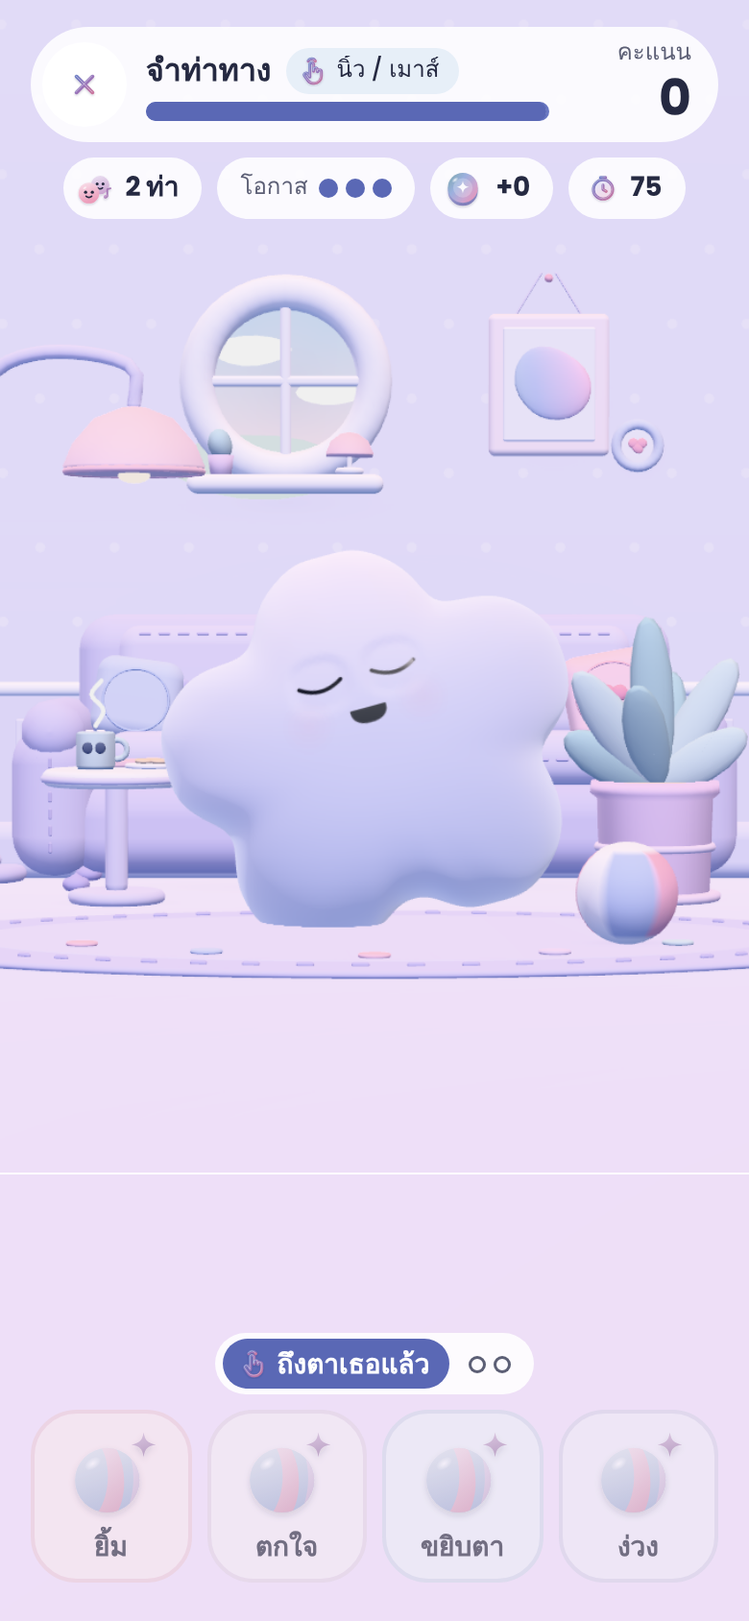
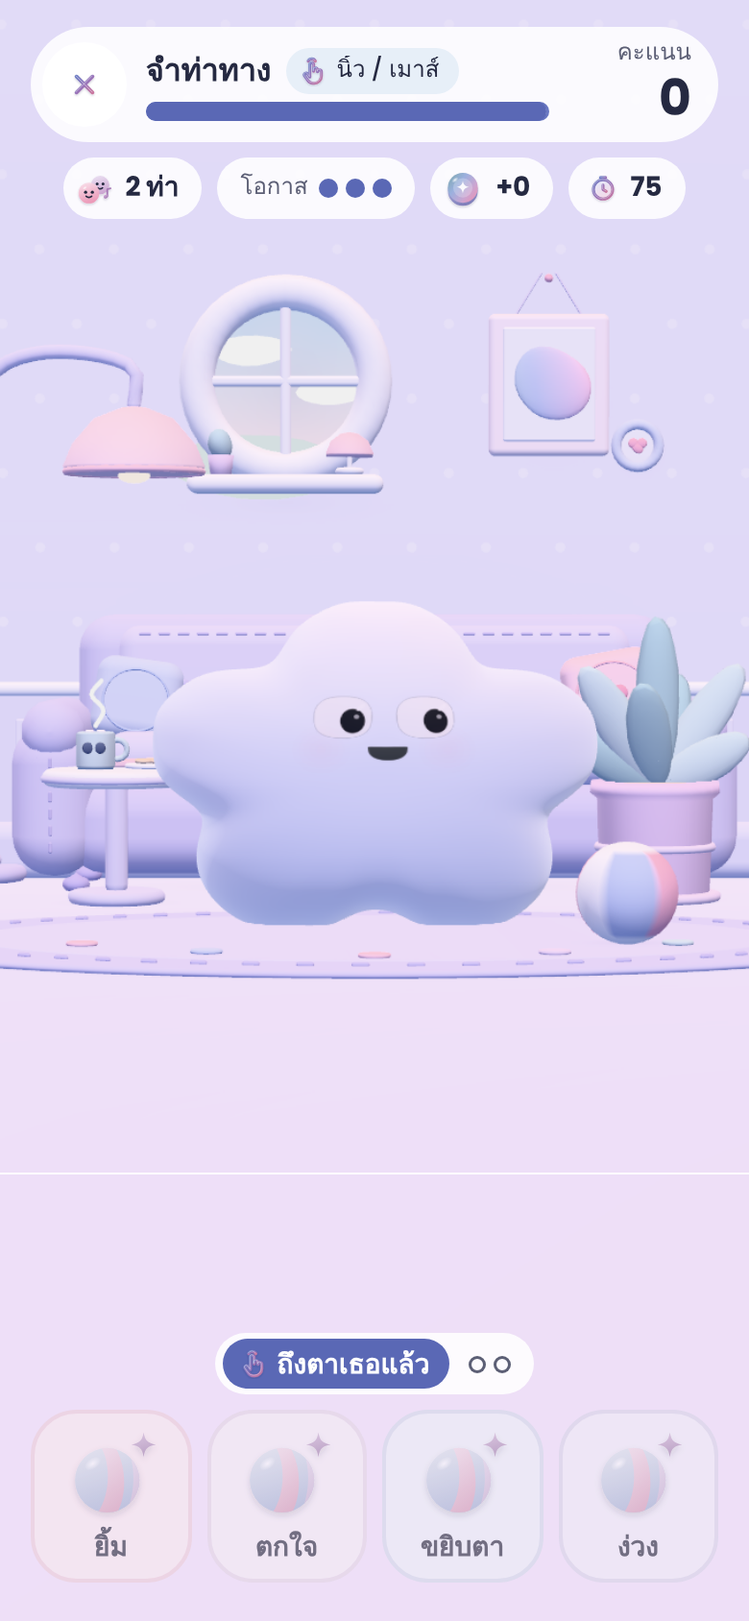
fix: flat eyes (no deep sockets), wider eyes for ฟ้า, centred face for มิน
- Eye sockets almost flat (depth .16 → .02), no socket shadow or rim;
  matte eye material with a small highlight only.
- ฟ้า (cloud): eyes further apart. มิน (gumdrop): eyes and mouth centred.

Story: owner feedback 2026-11-16 21:45

Claude-Session: https://claude.ai/code/session_01Q3WqCmjdGWgd4XbaBRHAmC

diff --git a/src/characters/shapes.js b/src/characters/shapes.js
@@ -7,4 +7,4 @@
  * pw, ph, prot, pdx, pdy, clip, lidU}, mouth {x, y, w, up, down, curve, skew, t, q}.
  * @type {Record<string, any>}
  */
-export const SHAPES = Object.freeze({"splat": {"profile": [0.8161, 0.833, 0.8512, 0.8701, 0.8889, 0.9071, 0.9241, 0.9393, 0.9526, 0.9637, 0.9726, 0.9792, 0.9835, 0.9855, 0.985, 0.9817, 0.9755, 0.9661, 0.9534, 0.9375, 0.9187, 0.8976, 0.8749, 0.8517, 0.829, 0.808, 0.7896, 0.7745, 0.7633, 0.756, 0.7525, 0.7525, 0.7553, 0.7606, 0.7676, 0.7761, 0.7857, 0.7964, 0.8081, 0.8209, 0.8347, 0.8494, 0.8648, 0.8804, 0.8955, 0.9096, 0.9218, 0.9315, 0.9383, 0.9419, 0.9421, 0.9391, 0.9333, 0.925, 0.9146, 0.9025, 0.889, 0.8744, 0.8586, 0.8419, 0.8242, 0.8057, 0.7867, 0.7673, 0.7483, 0.73, 0.7133, 0.6987, 0.6868, 0.6779, 0.6723, 0.6699, 0.6707, 0.6744, 0.6805, 0.6887, 0.6986, 0.7099, 0.7224, 0.7359, 0.7503, 0.7655, 0.7813, 0.7976, 0.8141, 0.8306, 0.8466, 0.8619, 0.876, 0.8887, 0.8999, 0.9094, 0.9171, 0.9232, 0.9276, 0.9306, 0.9321, 0.9323, 0.9312, 0.9288, 0.9251, 0.9202, 0.9139, 0.9065, 0.8981, 0.8887, 0.8786, 0.868, 0.857, 0.8459, 0.8347, 0.8235, 0.8125, 0.8017, 0.7913, 0.7814, 0.7723, 0.764, 0.7569, 0.7513, 0.7473, 0.745, 0.7447, 0.7461, 0.7494, 0.7542, 0.7603, 0.7675, 0.7756, 0.7842, 0.7931, 0.8023, 0.8116, 0.8209, 0.8303, 0.8398, 0.8493, 0.8589, 0.8685, 0.8783, 0.8883, 0.8984, 0.9087, 0.9191, 0.9296, 0.9401, 0.9504, 0.9602, 0.9694, 0.9773, 0.9836, 0.9879, 0.9896, 0.9886, 0.9845, 0.9773, 0.9672, 0.9544, 0.9396, 0.9231, 0.9058, 0.8884, 0.8714, 0.8554, 0.8409, 0.8282, 0.8173, 0.8083, 0.8011, 0.7954, 0.7909, 0.7876, 0.7851, 0.7834, 0.7824, 0.7823, 0.783, 0.7848, 0.7878, 0.7923, 0.7982, 0.8058, 0.8148, 0.8252, 0.8366, 0.8486, 0.861, 0.8733, 0.8851, 0.8961, 0.9061, 0.9151, 0.9231, 0.9301, 0.9365, 0.9422, 0.9476, 0.9525, 0.957, 0.9607, 0.9635, 0.9647, 0.9641, 0.9611, 0.9555, 0.947, 0.9357, 0.9218, 0.9057, 0.888, 0.8694, 0.8506, 0.8324, 0.8154, 0.8001, 0.7871, 0.7765, 0.7685, 0.7631, 0.7603, 0.76, 0.762, 0.7663, 0.7726, 0.7808, 0.7906, 0.8017, 0.8138, 0.8265, 0.8395, 0.8524, 0.8649, 0.8768, 0.8878, 0.898, 0.9071, 0.9154, 0.9228, 0.9293, 0.9351, 0.9398, 0.9435, 0.9459, 0.9467, 0.9457, 0.9426, 0.9373, 0.9296, 0.9197, 0.9075, 0.8935, 0.8777, 0.8607, 0.8428, 0.8243, 0.8057, 0.7873, 0.7693, 0.7522, 0.7361, 0.7212, 0.7078, 0.6959, 0.6856, 0.677, 0.6699, 0.6643, 0.6601, 0.6572, 0.6557, 0.6555, 0.6567, 0.6595, 0.6642, 0.671, 0.6801, 0.6916, 0.7056, 0.7217, 0.7396, 0.7589, 0.7788, 0.7987, 0.818, 0.836, 0.8524, 0.867, 0.8797, 0.8906, 0.9001, 0.9082, 0.9151, 0.921, 0.9256, 0.9288, 0.9303, 0.9297, 0.9268, 0.9214, 0.9135, 0.9034, 0.8915, 0.8785, 0.8651, 0.852, 0.8399, 0.8291, 0.82, 0.8124, 0.8064, 0.8015, 0.7974, 0.794, 0.7909, 0.7884, 0.7866, 0.7859, 0.7868, 0.7897, 0.7951, 0.8031, 0.8138, 0.827, 0.8422, 0.859, 0.8765, 0.8943, 0.9116, 0.928, 0.9433, 0.957, 0.9691, 0.9795, 0.988, 0.9944, 0.9985, 1.0, 0.9986, 0.9939, 0.986, 0.9747, 0.9602, 0.9431, 0.9238, 0.9032, 0.882, 0.861, 0.841, 0.8227, 0.8065, 0.7929, 0.7819, 0.7739, 0.7688, 0.7667, 0.7676, 0.7716, 0.7786, 0.7885, 0.8011], "req": 0.85, "aspect": 1.051, "colors": {"top": "#e5c7de", "mid": "#dda2bf", "bottom": "#e09ab5"}, "eye": {"pos": [[-0.2341, 0.2479], [0.102, 0.2479]], "w": 0.0846, "h": 0.0913, "p": 2.0, "rot": 0, "pw": 0.568, "ph": 0.568, "prot": 0, "pdx": 0.47, "pdy": 0.0, "clip": true, "lidU": 0}, "mouth": {"x": -0.0636, "y": 0.0857, "w": 0.048, "up": 0.0, "down": 0.0395, "curve": 0.0, "skew": 0.0, "t": 0.0016, "q": 1.6}}, "pill": {"profile": [0.6061, 0.6053, 0.6045, 0.6039, 0.6034, 0.603, 0.6029, 0.6031, 0.6035, 0.6042, 0.6051, 0.6062, 0.6075, 0.6089, 0.6103, 0.6118, 0.6134, 0.6151, 0.617, 0.6191, 0.6215, 0.6243, 0.6274, 0.6308, 0.6344, 0.6384, 0.6424, 0.6466, 0.6508, 0.6552, 0.6596, 0.6643, 0.6691, 0.6743, 0.6799, 0.6858, 0.6922, 0.6991, 0.7062, 0.7137, 0.7214, 0.7294, 0.7375, 0.7459, 0.7545, 0.7635, 0.773, 0.783, 0.7936, 0.8048, 0.8167, 0.829, 0.8417, 0.8546, 0.8675, 0.8804, 0.893, 0.9052, 0.917, 0.9284, 0.9392, 0.9494, 0.9591, 0.968, 0.9761, 0.9833, 0.9894, 0.9942, 0.9976, 0.9995, 1.0, 0.9991, 0.997, 0.9938, 0.99, 0.9856, 0.9811, 0.9767, 0.9725, 0.9688, 0.9655, 0.9626, 0.9602, 0.9582, 0.9565, 0.955, 0.9537, 0.9527, 0.9518, 0.9512, 0.9509, 0.9509, 0.9513, 0.952, 0.9532, 0.9547, 0.9566, 0.9587, 0.9611, 0.9637, 0.9663, 0.9691, 0.9719, 0.9748, 0.9776, 0.9805, 0.9832, 0.9858, 0.9883, 0.9906, 0.9926, 0.9944, 0.9957, 0.9967, 0.9972, 0.9971, 0.9963, 0.9949, 0.9926, 0.9895, 0.9854, 0.9803, 0.9741, 0.9669, 0.9586, 0.9493, 0.939, 0.9278, 0.9157, 0.9028, 0.8893, 0.8753, 0.8608, 0.846, 0.8311, 0.8161, 0.8012, 0.7867, 0.7727, 0.7592, 0.7464, 0.7344, 0.7232, 0.7128, 0.7032, 0.6943, 0.6859, 0.6781, 0.6707, 0.6636, 0.6569, 0.6504, 0.6442, 0.6383, 0.6328, 0.6275, 0.6226, 0.618, 0.6137, 0.6096, 0.6057, 0.602, 0.5985, 0.5951, 0.5919, 0.5889, 0.5862, 0.5838, 0.5816, 0.5799, 0.5784, 0.5773, 0.5764, 0.5758, 0.5754, 0.5751, 0.5749, 0.5748, 0.5749, 0.5751, 0.5755, 0.5761, 0.5769, 0.5779, 0.5792, 0.5807, 0.5823, 0.5842, 0.5862, 0.5884, 0.5908, 0.5934, 0.5963, 0.5994, 0.6029, 0.6067, 0.6107, 0.615, 0.6196, 0.6243, 0.6292, 0.6344, 0.6397, 0.6453, 0.6513, 0.6577, 0.6645, 0.6719, 0.6798, 0.6881, 0.6967, 0.7057, 0.7147, 0.7239, 0.733, 0.7422, 0.7515, 0.761, 0.7709, 0.7815, 0.7928, 0.805, 0.8181, 0.832, 0.8464, 0.8612, 0.8758, 0.8899, 0.9032, 0.9152, 0.9257, 0.9346, 0.9418, 0.9476, 0.952, 0.9553, 0.9577, 0.9595, 0.9609, 0.962, 0.9628, 0.9633, 0.9635, 0.9633, 0.9627, 0.9615, 0.9599, 0.9579, 0.9557, 0.9532, 0.9507, 0.9483, 0.9461, 0.9441, 0.9424, 0.9409, 0.9395, 0.9381, 0.9367, 0.9352, 0.9336, 0.9319, 0.93, 0.9282, 0.9264, 0.9247, 0.9233, 0.9222, 0.9214, 0.921, 0.9209, 0.9212, 0.9218, 0.9226, 0.9238, 0.9251, 0.9267, 0.9284, 0.9303, 0.9323, 0.9344, 0.9366, 0.9387, 0.9409, 0.9429, 0.9448, 0.9467, 0.9483, 0.9499, 0.9513, 0.9525, 0.9536, 0.9546, 0.9554, 0.9562, 0.9568, 0.9572, 0.9575, 0.9575, 0.9572, 0.9566, 0.9556, 0.9541, 0.952, 0.9492, 0.9457, 0.9415, 0.9364, 0.9305, 0.9238, 0.9163, 0.908, 0.8991, 0.8896, 0.8796, 0.8691, 0.8583, 0.8472, 0.836, 0.8246, 0.8132, 0.802, 0.7909, 0.7801, 0.7697, 0.7598, 0.7504, 0.7415, 0.7333, 0.7256, 0.7184, 0.7117, 0.7053, 0.6993, 0.6935, 0.6878, 0.6824, 0.677, 0.6718, 0.6668, 0.6619, 0.6572, 0.6527, 0.6484, 0.6443, 0.6404, 0.6366, 0.633, 0.6296, 0.6264, 0.6234, 0.6205, 0.618, 0.6157, 0.6137, 0.6119, 0.6104, 0.6091, 0.608, 0.607], "req": 0.8139, "aspect": 0.656, "colors": {"top": "#eebad1", "mid": "#d59fc5", "bottom": "#c696c2"}, "eye": {"pos": [[-0.1413, 0.5557], [0.0691, 0.5557]], "w": 0.077, "h": 0.0912, "p": 2.0, "rot": 0, "pw": 0.525, "ph": 0.552, "prot": 0, "pdx": 0.158, "pdy": -0.162, "clip": true, "lidU": 0}, "mouth": {"x": -0.0357, "y": 0.3503, "w": 0.0976, "up": 0.0, "down": 0.0, "curve": 0.0357, "skew": 0.0, "t": 0.0053, "q": 2}}, "gumdrop": {"profile": [0.9137, 0.9105, 0.9072, 0.9038, 0.9004, 0.897, 0.8936, 0.8904, 0.8873, 0.8843, 0.8815, 0.8787, 0.876, 0.8734, 0.8708, 0.8682, 0.8657, 0.8633, 0.861, 0.8588, 0.8568, 0.8548, 0.853, 0.8513, 0.8497, 0.8481, 0.8465, 0.8449, 0.8433, 0.8417, 0.8401, 0.8387, 0.8373, 0.836, 0.8349, 0.834, 0.8332, 0.8325, 0.832, 0.8314, 0.8309, 0.8305, 0.83, 0.8296, 0.8293, 0.8292, 0.8292, 0.8294, 0.8297, 0.8302, 0.8308, 0.8315, 0.8321, 0.8327, 0.8332, 0.8336, 0.8339, 0.8341, 0.8344, 0.8347, 0.8352, 0.8359, 0.8368, 0.8379, 0.8391, 0.8405, 0.8419, 0.8433, 0.8447, 0.846, 0.8473, 0.8486, 0.85, 0.8513, 0.8528, 0.8543, 0.8559, 0.8574, 0.8588, 0.8599, 0.8607, 0.8611, 0.861, 0.8604, 0.8595, 0.8582, 0.8569, 0.8556, 0.8545, 0.8538, 0.8535, 0.8537, 0.8544, 0.8554, 0.8567, 0.8581, 0.8594, 0.8605, 0.8613, 0.8616, 0.8615, 0.8609, 0.86, 0.8587, 0.8572, 0.8557, 0.854, 0.8523, 0.8507, 0.8491, 0.8476, 0.8461, 0.8446, 0.8431, 0.8415, 0.84, 0.8385, 0.837, 0.8355, 0.834, 0.8326, 0.8312, 0.8298, 0.8284, 0.8271, 0.8257, 0.8244, 0.823, 0.8216, 0.8203, 0.819, 0.8179, 0.8169, 0.8161, 0.8155, 0.8152, 0.8152, 0.8154, 0.8159, 0.8166, 0.8175, 0.8185, 0.8196, 0.8208, 0.8219, 0.823, 0.8242, 0.8253, 0.8264, 0.8275, 0.8288, 0.8302, 0.8318, 0.8336, 0.8357, 0.8379, 0.8403, 0.8429, 0.8455, 0.8483, 0.8511, 0.8538, 0.8566, 0.8594, 0.8623, 0.8651, 0.868, 0.8711, 0.8742, 0.8775, 0.8809, 0.8845, 0.8883, 0.8923, 0.8964, 0.9006, 0.9049, 0.9093, 0.9137, 0.9181, 0.9223, 0.9263, 0.93, 0.9334, 0.9364, 0.939, 0.9414, 0.9436, 0.9457, 0.9479, 0.9503, 0.9532, 0.9565, 0.9604, 0.9647, 0.9694, 0.9744, 0.9794, 0.9843, 0.9887, 0.9926, 0.9957, 0.9979, 0.9994, 1.0, 0.9999, 0.9993, 0.9982, 0.9968, 0.9951, 0.9932, 0.9912, 0.989, 0.9865, 0.9838, 0.9806, 0.977, 0.973, 0.9686, 0.9637, 0.9584, 0.9528, 0.9469, 0.9406, 0.934, 0.9272, 0.92, 0.9125, 0.9047, 0.8966, 0.8882, 0.8796, 0.8708, 0.8619, 0.853, 0.8442, 0.8355, 0.827, 0.8187, 0.8106, 0.8027, 0.7951, 0.7877, 0.7806, 0.7737, 0.7672, 0.761, 0.7551, 0.7495, 0.7444, 0.7396, 0.7351, 0.7309, 0.727, 0.7233, 0.7199, 0.7166, 0.7136, 0.7108, 0.7082, 0.7059, 0.7039, 0.7021, 0.7006, 0.6993, 0.6983, 0.6975, 0.6968, 0.6962, 0.6959, 0.6957, 0.6956, 0.6958, 0.6963, 0.697, 0.698, 0.6992, 0.7007, 0.7025, 0.7044, 0.7064, 0.7086, 0.711, 0.7135, 0.7163, 0.7194, 0.7227, 0.7265, 0.7306, 0.735, 0.7398, 0.7449, 0.7502, 0.7558, 0.7615, 0.7674, 0.7735, 0.7799, 0.7867, 0.794, 0.8018, 0.8103, 0.8193, 0.829, 0.839, 0.8494, 0.8599, 0.8703, 0.8804, 0.8901, 0.8993, 0.908, 0.916, 0.9235, 0.9306, 0.9373, 0.9437, 0.9498, 0.9557, 0.9613, 0.9666, 0.9715, 0.976, 0.9798, 0.9832, 0.9859, 0.988, 0.9897, 0.9909, 0.9918, 0.9923, 0.9926, 0.9927, 0.9925, 0.9919, 0.991, 0.9895, 0.9875, 0.9849, 0.9816, 0.9778, 0.9734, 0.9686, 0.9637, 0.9586, 0.9537, 0.949, 0.9447, 0.9409, 0.9376, 0.9348, 0.9324, 0.9304, 0.9287, 0.927, 0.9253, 0.9235, 0.9214, 0.9191, 0.9165], "req": 0.8615, "aspect": 1.2, "colors": {"top": "#decbe5", "mid": "#b4add9", "bottom": "#a0a1d3"}, "eye": {"pos": [[-0.2534, 0.4712], [-0.0615, 0.4712]], "w": 0.0662, "h": 0.105, "p": 2.0, "rot": 0, "pw": 0.667, "ph": 0.6, "prot": 0, "pdx": -0.25, "pdy": -0.38, "clip": true, "lidU": 0}, "mouth": {"x": -0.1395, "y": 0.3464, "w": 0.0235, "up": 0.0235, "down": 0.0235, "curve": 0.0, "skew": 0.0, "t": 0.0, "q": 2}}, "diamond": {"profile": [0.5787, 0.5777, 0.5765, 0.5751, 0.5736, 0.572, 0.5704, 0.5688, 0.5673, 0.566, 0.5648, 0.5637, 0.5628, 0.5619, 0.5611, 0.5603, 0.5595, 0.5588, 0.5581, 0.5575, 0.5571, 0.5569, 0.5568, 0.557, 0.5574, 0.558, 0.5587, 0.5595, 0.5605, 0.5615, 0.5627, 0.5639, 0.5654, 0.5671, 0.569, 0.5711, 0.5736, 0.5763, 0.5793, 0.5825, 0.586, 0.5897, 0.5936, 0.5977, 0.6021, 0.6067, 0.6116, 0.6167, 0.6221, 0.6277, 0.6336, 0.6397, 0.6461, 0.6527, 0.6597, 0.6669, 0.6745, 0.6826, 0.6911, 0.7, 0.7094, 0.7193, 0.7296, 0.7403, 0.7514, 0.7629, 0.7747, 0.787, 0.7998, 0.8131, 0.8271, 0.8417, 0.8568, 0.8724, 0.8882, 0.904, 0.9194, 0.934, 0.9476, 0.9597, 0.9702, 0.979, 0.986, 0.9913, 0.995, 0.9976, 0.9991, 0.9998, 1.0, 0.9997, 0.9991, 0.9979, 0.9962, 0.9938, 0.9905, 0.9861, 0.9804, 0.9734, 0.9651, 0.9555, 0.9447, 0.9327, 0.9197, 0.9059, 0.8915, 0.8767, 0.8615, 0.8463, 0.8311, 0.8161, 0.8015, 0.7875, 0.7741, 0.7614, 0.7495, 0.7383, 0.7278, 0.7178, 0.7084, 0.6993, 0.6905, 0.6819, 0.6736, 0.6655, 0.6577, 0.6503, 0.6433, 0.6369, 0.631, 0.6257, 0.6209, 0.6165, 0.6125, 0.6088, 0.6051, 0.6015, 0.5979, 0.5944, 0.5909, 0.5875, 0.5843, 0.5814, 0.5788, 0.5766, 0.5748, 0.5733, 0.5721, 0.5711, 0.5702, 0.5694, 0.5686, 0.5678, 0.5671, 0.5664, 0.5658, 0.5654, 0.5652, 0.5651, 0.5653, 0.5656, 0.5661, 0.5667, 0.5674, 0.5682, 0.569, 0.5699, 0.5709, 0.572, 0.5733, 0.5746, 0.5762, 0.5778, 0.5794, 0.581, 0.5826, 0.584, 0.5852, 0.5862, 0.587, 0.5877, 0.5881, 0.5885, 0.5889, 0.5893, 0.5899, 0.5905, 0.5913, 0.5923, 0.5932, 0.5942, 0.5952, 0.596, 0.5966, 0.597, 0.5972, 0.5971, 0.5968, 0.5964, 0.5959, 0.5954, 0.595, 0.5947, 0.5946, 0.5947, 0.5949, 0.5953, 0.5959, 0.5964, 0.597, 0.5976, 0.5982, 0.5987, 0.5993, 0.6001, 0.601, 0.6022, 0.6038, 0.6058, 0.6081, 0.6109, 0.6139, 0.6172, 0.6207, 0.6242, 0.6277, 0.6312, 0.6346, 0.6381, 0.6416, 0.6452, 0.6491, 0.6532, 0.6577, 0.6625, 0.6677, 0.6732, 0.679, 0.6851, 0.6915, 0.6981, 0.705, 0.7123, 0.72, 0.7282, 0.737, 0.7463, 0.7563, 0.7669, 0.7781, 0.7899, 0.8021, 0.8148, 0.8279, 0.8413, 0.855, 0.8688, 0.8828, 0.8966, 0.9102, 0.9234, 0.9358, 0.9472, 0.9574, 0.9662, 0.9735, 0.9794, 0.9838, 0.9869, 0.9891, 0.9905, 0.9913, 0.9918, 0.9919, 0.9916, 0.9907, 0.9889, 0.9858, 0.981, 0.9743, 0.9656, 0.9546, 0.9416, 0.9269, 0.9108, 0.894, 0.8768, 0.8599, 0.8436, 0.8282, 0.814, 0.8009, 0.7888, 0.7775, 0.767, 0.7569, 0.7471, 0.7375, 0.7281, 0.719, 0.7103, 0.702, 0.6943, 0.6871, 0.6805, 0.6743, 0.6686, 0.6631, 0.6578, 0.6526, 0.6474, 0.6423, 0.6373, 0.6324, 0.6279, 0.6237, 0.62, 0.6167, 0.614, 0.6116, 0.6095, 0.6076, 0.6059, 0.6041, 0.6024, 0.6007, 0.5989, 0.5973, 0.5958, 0.5944, 0.5932, 0.5923, 0.5916, 0.591, 0.5906, 0.5903, 0.59, 0.5898, 0.5896, 0.5895, 0.5894, 0.5895, 0.5896, 0.5898, 0.5899, 0.5901, 0.5901, 0.59, 0.5896, 0.589, 0.5883, 0.5873, 0.5863, 0.5852, 0.5841, 0.5832, 0.5823, 0.5816, 0.5809, 0.5803, 0.5796], "req": 0.7042, "aspect": 0.586, "colors": {"top": "#acc1de", "mid": "#8babc1", "bottom": "#8aa8b4"}, "eye": {"pos": [[-0.1038, 0.5364], [0.1173, 0.5364]], "w": 0.0823, "h": 0.1084, "p": 1.7, "rot": 0, "pw": 0.547, "ph": 0.443, "prot": 0, "pdx": 0.012, "pdy": -0.143, "clip": true, "lidU": 0.5}, "mouth": {"x": 0.0029, "y": 0.3445, "w": 0.0209, "up": 0.0209, "down": 0.0209, "curve": 0.0, "skew": 0.0, "t": 0.0, "q": 2}}, "cloud": {"profile": [0.9409, 0.9316, 0.921, 0.9091, 0.8959, 0.8817, 0.8668, 0.8516, 0.837, 0.8235, 0.8119, 0.803, 0.7971, 0.7944, 0.795, 0.7985, 0.8042, 0.8114, 0.8193, 0.827, 0.8339, 0.8395, 0.8436, 0.8463, 0.8478, 0.8484, 0.8486, 0.8488, 0.849, 0.8495, 0.85, 0.8505, 0.8504, 0.8497, 0.8479, 0.8451, 0.8412, 0.8365, 0.8312, 0.8256, 0.8201, 0.8147, 0.8096, 0.8046, 0.7995, 0.7939, 0.7876, 0.7804, 0.772, 0.7627, 0.7528, 0.7427, 0.7331, 0.7247, 0.7179, 0.7134, 0.7113, 0.7117, 0.7143, 0.7189, 0.7249, 0.7317, 0.7388, 0.7459, 0.7526, 0.7588, 0.7644, 0.7696, 0.7744, 0.7791, 0.7837, 0.7883, 0.793, 0.7975, 0.802, 0.8063, 0.8103, 0.8139, 0.8172, 0.8201, 0.8226, 0.8247, 0.8265, 0.8278, 0.8287, 0.8291, 0.8292, 0.8289, 0.8284, 0.8278, 0.8273, 0.827, 0.827, 0.8274, 0.828, 0.8288, 0.8294, 0.8297, 0.8293, 0.8281, 0.826, 0.823, 0.8191, 0.8148, 0.8101, 0.8054, 0.801, 0.7969, 0.793, 0.7893, 0.7853, 0.7808, 0.7754, 0.769, 0.7616, 0.7534, 0.7447, 0.7363, 0.7288, 0.7229, 0.7193, 0.7184, 0.7205, 0.7255, 0.7329, 0.7423, 0.7529, 0.764, 0.7748, 0.785, 0.7941, 0.802, 0.8088, 0.8148, 0.8202, 0.8252, 0.8302, 0.8352, 0.8401, 0.845, 0.8495, 0.8536, 0.857, 0.8597, 0.8618, 0.8632, 0.8642, 0.865, 0.8658, 0.8665, 0.8673, 0.8679, 0.8682, 0.868, 0.8669, 0.8647, 0.8615, 0.8573, 0.8522, 0.8467, 0.8412, 0.8364, 0.8326, 0.8306, 0.8305, 0.8327, 0.8372, 0.8439, 0.8526, 0.8627, 0.8739, 0.8857, 0.8975, 0.9089, 0.9194, 0.9287, 0.9367, 0.9431, 0.9482, 0.9519, 0.9545, 0.9563, 0.9577, 0.9589, 0.9603, 0.9619, 0.964, 0.9664, 0.969, 0.9716, 0.9739, 0.9757, 0.9767, 0.9769, 0.9761, 0.9745, 0.9723, 0.9697, 0.9668, 0.9639, 0.961, 0.958, 0.9546, 0.9506, 0.9456, 0.9392, 0.9314, 0.9219, 0.911, 0.899, 0.8864, 0.874, 0.8623, 0.8522, 0.844, 0.8382, 0.8347, 0.8335, 0.8341, 0.836, 0.8386, 0.8412, 0.8433, 0.8445, 0.8446, 0.8434, 0.8411, 0.8378, 0.8338, 0.8293, 0.8245, 0.8196, 0.8146, 0.8096, 0.8046, 0.7995, 0.7945, 0.7894, 0.7843, 0.7793, 0.7743, 0.7694, 0.7646, 0.7599, 0.7551, 0.7504, 0.7456, 0.7406, 0.7356, 0.7306, 0.7256, 0.7207, 0.716, 0.7115, 0.7072, 0.7029, 0.6987, 0.6943, 0.6896, 0.6846, 0.6792, 0.6736, 0.6679, 0.6625, 0.6577, 0.6538, 0.6512, 0.6502, 0.6507, 0.6529, 0.6566, 0.6614, 0.6672, 0.6735, 0.68, 0.6864, 0.6925, 0.6983, 0.7037, 0.7088, 0.7136, 0.7182, 0.7226, 0.727, 0.7312, 0.7354, 0.7396, 0.7437, 0.7478, 0.752, 0.7565, 0.7612, 0.7663, 0.7717, 0.7774, 0.7833, 0.7891, 0.7947, 0.7999, 0.8045, 0.8085, 0.8118, 0.8146, 0.8169, 0.8191, 0.8213, 0.8236, 0.826, 0.8285, 0.831, 0.8334, 0.8353, 0.8366, 0.8373, 0.8375, 0.8374, 0.8373, 0.8377, 0.839, 0.8415, 0.8458, 0.8517, 0.8593, 0.8684, 0.8784, 0.889, 0.8995, 0.9095, 0.9187, 0.9269, 0.934, 0.9401, 0.9455, 0.9505, 0.9553, 0.9602, 0.9653, 0.9706, 0.976, 0.9813, 0.9863, 0.9908, 0.9944, 0.9972, 0.9991, 1.0, 1.0, 0.9992, 0.9978, 0.9957, 0.9932, 0.9902, 0.9868, 0.983, 0.9787, 0.974, 0.9687, 0.9629, 0.9564, 0.9491], "req": 0.8318, "aspect": 1.26, "colors": {"top": "#d1dce4", "mid": "#adbddc", "bottom": "#a5b0db"}, "eye": {"pos": [[0.0074, 0.3496], [0.1175, 0.3496]], "w": 0.0583, "h": 0.0957, "p": 2.0, "rot": -0.1, "pw": 0.78, "ph": 0.676, "prot": 0, "pdx": -0.63, "pdy": 0.0, "clip": false, "lidU": 0}, "mouth": {"x": 0.058, "y": 0.1573, "w": 0.0831, "up": 0.0, "down": 0.0, "curve": 0.035, "skew": 0.0058, "t": 0.0047, "q": 2}}, "flower": {"profile": [0.9351, 0.9428, 0.9497, 0.9557, 0.9611, 0.9658, 0.97, 0.9737, 0.977, 0.98, 0.9829, 0.9857, 0.9883, 0.9908, 0.9932, 0.9952, 0.9969, 0.9982, 0.9988, 0.9988, 0.9981, 0.9966, 0.9944, 0.9916, 0.9881, 0.9841, 0.9796, 0.9748, 0.9695, 0.9639, 0.9579, 0.9515, 0.9446, 0.9372, 0.9291, 0.9203, 0.9107, 0.9004, 0.8893, 0.8775, 0.8651, 0.8521, 0.8389, 0.8257, 0.8127, 0.8001, 0.7884, 0.7778, 0.7687, 0.7612, 0.7555, 0.7518, 0.7501, 0.7504, 0.7526, 0.7565, 0.7619, 0.7686, 0.7763, 0.7847, 0.7936, 0.8028, 0.812, 0.8211, 0.83, 0.8386, 0.8468, 0.8546, 0.8619, 0.869, 0.8756, 0.882, 0.8882, 0.8941, 0.8998, 0.9053, 0.9105, 0.9153, 0.9196, 0.9233, 0.9263, 0.9286, 0.9301, 0.9309, 0.931, 0.9306, 0.9299, 0.9291, 0.9283, 0.9278, 0.9277, 0.9279, 0.9285, 0.9293, 0.9302, 0.9309, 0.9312, 0.931, 0.9301, 0.9284, 0.926, 0.9227, 0.9188, 0.9144, 0.9096, 0.9045, 0.8992, 0.8938, 0.8883, 0.8826, 0.8766, 0.8703, 0.8635, 0.8562, 0.8483, 0.8398, 0.8309, 0.8215, 0.812, 0.8024, 0.7929, 0.7839, 0.7755, 0.768, 0.7616, 0.7565, 0.7529, 0.7509, 0.7506, 0.7523, 0.7558, 0.7611, 0.7683, 0.7771, 0.7875, 0.7991, 0.8117, 0.8249, 0.8386, 0.8523, 0.8657, 0.8787, 0.8909, 0.9023, 0.9127, 0.9222, 0.9308, 0.9385, 0.9455, 0.9519, 0.958, 0.9636, 0.9691, 0.9743, 0.9794, 0.9841, 0.9885, 0.9923, 0.9955, 0.9979, 0.9994, 1.0, 0.9996, 0.9983, 0.9963, 0.9937, 0.9906, 0.9873, 0.9841, 0.9808, 0.9778, 0.975, 0.9723, 0.9697, 0.9669, 0.9638, 0.9602, 0.9559, 0.9507, 0.9446, 0.9374, 0.9291, 0.9197, 0.9093, 0.898, 0.8859, 0.8734, 0.8606, 0.8479, 0.8354, 0.8237, 0.8129, 0.8035, 0.7957, 0.7898, 0.7859, 0.7841, 0.7845, 0.787, 0.7915, 0.7976, 0.8053, 0.8141, 0.8237, 0.8339, 0.8444, 0.8549, 0.8652, 0.8753, 0.8849, 0.894, 0.9025, 0.9105, 0.9179, 0.9248, 0.9312, 0.9371, 0.9426, 0.9476, 0.9523, 0.9566, 0.9605, 0.964, 0.9672, 0.9699, 0.9721, 0.9739, 0.9753, 0.9763, 0.9768, 0.977, 0.9769, 0.9764, 0.9756, 0.9743, 0.9726, 0.9702, 0.9671, 0.9632, 0.9585, 0.9528, 0.9463, 0.9392, 0.9316, 0.9237, 0.9159, 0.9083, 0.901, 0.8941, 0.8876, 0.8812, 0.8747, 0.8678, 0.8601, 0.8514, 0.8415, 0.8304, 0.8182, 0.8052, 0.7918, 0.7784, 0.7655, 0.7536, 0.7431, 0.7341, 0.7268, 0.7211, 0.7171, 0.7144, 0.7129, 0.7125, 0.713, 0.7146, 0.7173, 0.7213, 0.7268, 0.7338, 0.7425, 0.7527, 0.7644, 0.7771, 0.7904, 0.8039, 0.8171, 0.8296, 0.841, 0.8512, 0.8602, 0.8681, 0.8752, 0.8817, 0.888, 0.8944, 0.9011, 0.9082, 0.9156, 0.9234, 0.9312, 0.9388, 0.946, 0.9525, 0.9583, 0.9631, 0.967, 0.97, 0.9722, 0.9738, 0.9749, 0.9755, 0.9759, 0.976, 0.9758, 0.9753, 0.9745, 0.9734, 0.9719, 0.97, 0.9675, 0.9647, 0.9613, 0.9575, 0.9531, 0.9483, 0.9431, 0.9373, 0.9311, 0.9244, 0.9172, 0.9095, 0.9013, 0.8926, 0.8835, 0.874, 0.864, 0.8538, 0.8434, 0.8331, 0.8229, 0.8133, 0.8045, 0.7967, 0.7905, 0.7859, 0.7834, 0.783, 0.7848, 0.7889, 0.795, 0.803, 0.8126, 0.8235, 0.8352, 0.8475, 0.86, 0.8724, 0.8845, 0.8961, 0.907, 0.9172, 0.9265], "req": 0.8885, "aspect": 1.098, "colors": {"top": "#e9e0ef", "mid": "#c8cbe8", "bottom": "#b7c1e4"}, "eye": {"pos": [[-0.1528, 0.3294], [0.1905, 0.3294]], "w": 0.1081, "h": 0.0969, "p": 2.6, "rot": 0, "pw": 0.441, "ph": 0.607, "prot": 0, "pdx": 0.294, "pdy": -0.214, "clip": true, "lidU": 0}, "mouth": {"x": 0.0329, "y": 0.1733, "w": 0.0805, "up": 0.0018, "down": 0.059, "curve": 0.0024, "skew": 0.0, "t": 0.0018, "q": 2.4}}});
+export const SHAPES = Object.freeze({"splat": {"profile": [0.8161, 0.833, 0.8512, 0.8701, 0.8889, 0.9071, 0.9241, 0.9393, 0.9526, 0.9637, 0.9726, 0.9792, 0.9835, 0.9855, 0.985, 0.9817, 0.9755, 0.9661, 0.9534, 0.9375, 0.9187, 0.8976, 0.8749, 0.8517, 0.829, 0.808, 0.7896, 0.7745, 0.7633, 0.756, 0.7525, 0.7525, 0.7553, 0.7606, 0.7676, 0.7761, 0.7857, 0.7964, 0.8081, 0.8209, 0.8347, 0.8494, 0.8648, 0.8804, 0.8955, 0.9096, 0.9218, 0.9315, 0.9383, 0.9419, 0.9421, 0.9391, 0.9333, 0.925, 0.9146, 0.9025, 0.889, 0.8744, 0.8586, 0.8419, 0.8242, 0.8057, 0.7867, 0.7673, 0.7483, 0.73, 0.7133, 0.6987, 0.6868, 0.6779, 0.6723, 0.6699, 0.6707, 0.6744, 0.6805, 0.6887, 0.6986, 0.7099, 0.7224, 0.7359, 0.7503, 0.7655, 0.7813, 0.7976, 0.8141, 0.8306, 0.8466, 0.8619, 0.876, 0.8887, 0.8999, 0.9094, 0.9171, 0.9232, 0.9276, 0.9306, 0.9321, 0.9323, 0.9312, 0.9288, 0.9251, 0.9202, 0.9139, 0.9065, 0.8981, 0.8887, 0.8786, 0.868, 0.857, 0.8459, 0.8347, 0.8235, 0.8125, 0.8017, 0.7913, 0.7814, 0.7723, 0.764, 0.7569, 0.7513, 0.7473, 0.745, 0.7447, 0.7461, 0.7494, 0.7542, 0.7603, 0.7675, 0.7756, 0.7842, 0.7931, 0.8023, 0.8116, 0.8209, 0.8303, 0.8398, 0.8493, 0.8589, 0.8685, 0.8783, 0.8883, 0.8984, 0.9087, 0.9191, 0.9296, 0.9401, 0.9504, 0.9602, 0.9694, 0.9773, 0.9836, 0.9879, 0.9896, 0.9886, 0.9845, 0.9773, 0.9672, 0.9544, 0.9396, 0.9231, 0.9058, 0.8884, 0.8714, 0.8554, 0.8409, 0.8282, 0.8173, 0.8083, 0.8011, 0.7954, 0.7909, 0.7876, 0.7851, 0.7834, 0.7824, 0.7823, 0.783, 0.7848, 0.7878, 0.7923, 0.7982, 0.8058, 0.8148, 0.8252, 0.8366, 0.8486, 0.861, 0.8733, 0.8851, 0.8961, 0.9061, 0.9151, 0.9231, 0.9301, 0.9365, 0.9422, 0.9476, 0.9525, 0.957, 0.9607, 0.9635, 0.9647, 0.9641, 0.9611, 0.9555, 0.947, 0.9357, 0.9218, 0.9057, 0.888, 0.8694, 0.8506, 0.8324, 0.8154, 0.8001, 0.7871, 0.7765, 0.7685, 0.7631, 0.7603, 0.76, 0.762, 0.7663, 0.7726, 0.7808, 0.7906, 0.8017, 0.8138, 0.8265, 0.8395, 0.8524, 0.8649, 0.8768, 0.8878, 0.898, 0.9071, 0.9154, 0.9228, 0.9293, 0.9351, 0.9398, 0.9435, 0.9459, 0.9467, 0.9457, 0.9426, 0.9373, 0.9296, 0.9197, 0.9075, 0.8935, 0.8777, 0.8607, 0.8428, 0.8243, 0.8057, 0.7873, 0.7693, 0.7522, 0.7361, 0.7212, 0.7078, 0.6959, 0.6856, 0.677, 0.6699, 0.6643, 0.6601, 0.6572, 0.6557, 0.6555, 0.6567, 0.6595, 0.6642, 0.671, 0.6801, 0.6916, 0.7056, 0.7217, 0.7396, 0.7589, 0.7788, 0.7987, 0.818, 0.836, 0.8524, 0.867, 0.8797, 0.8906, 0.9001, 0.9082, 0.9151, 0.921, 0.9256, 0.9288, 0.9303, 0.9297, 0.9268, 0.9214, 0.9135, 0.9034, 0.8915, 0.8785, 0.8651, 0.852, 0.8399, 0.8291, 0.82, 0.8124, 0.8064, 0.8015, 0.7974, 0.794, 0.7909, 0.7884, 0.7866, 0.7859, 0.7868, 0.7897, 0.7951, 0.8031, 0.8138, 0.827, 0.8422, 0.859, 0.8765, 0.8943, 0.9116, 0.928, 0.9433, 0.957, 0.9691, 0.9795, 0.988, 0.9944, 0.9985, 1.0, 0.9986, 0.9939, 0.986, 0.9747, 0.9602, 0.9431, 0.9238, 0.9032, 0.882, 0.861, 0.841, 0.8227, 0.8065, 0.7929, 0.7819, 0.7739, 0.7688, 0.7667, 0.7676, 0.7716, 0.7786, 0.7885, 0.8011], "req": 0.85, "aspect": 1.051, "colors": {"top": "#e5c7de", "mid": "#dda2bf", "bottom": "#e09ab5"}, "eye": {"pos": [[-0.2341, 0.2479], [0.102, 0.2479]], "w": 0.0846, "h": 0.0913, "p": 2.0, "rot": 0, "pw": 0.568, "ph": 0.568, "prot": 0, "pdx": 0.47, "pdy": 0.0, "clip": true, "lidU": 0}, "mouth": {"x": -0.0636, "y": 0.0857, "w": 0.048, "up": 0.0, "down": 0.0395, "curve": 0.0, "skew": 0.0, "t": 0.0016, "q": 1.6}}, "pill": {"profile": [0.6061, 0.6053, 0.6045, 0.6039, 0.6034, 0.603, 0.6029, 0.6031, 0.6035, 0.6042, 0.6051, 0.6062, 0.6075, 0.6089, 0.6103, 0.6118, 0.6134, 0.6151, 0.617, 0.6191, 0.6215, 0.6243, 0.6274, 0.6308, 0.6344, 0.6384, 0.6424, 0.6466, 0.6508, 0.6552, 0.6596, 0.6643, 0.6691, 0.6743, 0.6799, 0.6858, 0.6922, 0.6991, 0.7062, 0.7137, 0.7214, 0.7294, 0.7375, 0.7459, 0.7545, 0.7635, 0.773, 0.783, 0.7936, 0.8048, 0.8167, 0.829, 0.8417, 0.8546, 0.8675, 0.8804, 0.893, 0.9052, 0.917, 0.9284, 0.9392, 0.9494, 0.9591, 0.968, 0.9761, 0.9833, 0.9894, 0.9942, 0.9976, 0.9995, 1.0, 0.9991, 0.997, 0.9938, 0.99, 0.9856, 0.9811, 0.9767, 0.9725, 0.9688, 0.9655, 0.9626, 0.9602, 0.9582, 0.9565, 0.955, 0.9537, 0.9527, 0.9518, 0.9512, 0.9509, 0.9509, 0.9513, 0.952, 0.9532, 0.9547, 0.9566, 0.9587, 0.9611, 0.9637, 0.9663, 0.9691, 0.9719, 0.9748, 0.9776, 0.9805, 0.9832, 0.9858, 0.9883, 0.9906, 0.9926, 0.9944, 0.9957, 0.9967, 0.9972, 0.9971, 0.9963, 0.9949, 0.9926, 0.9895, 0.9854, 0.9803, 0.9741, 0.9669, 0.9586, 0.9493, 0.939, 0.9278, 0.9157, 0.9028, 0.8893, 0.8753, 0.8608, 0.846, 0.8311, 0.8161, 0.8012, 0.7867, 0.7727, 0.7592, 0.7464, 0.7344, 0.7232, 0.7128, 0.7032, 0.6943, 0.6859, 0.6781, 0.6707, 0.6636, 0.6569, 0.6504, 0.6442, 0.6383, 0.6328, 0.6275, 0.6226, 0.618, 0.6137, 0.6096, 0.6057, 0.602, 0.5985, 0.5951, 0.5919, 0.5889, 0.5862, 0.5838, 0.5816, 0.5799, 0.5784, 0.5773, 0.5764, 0.5758, 0.5754, 0.5751, 0.5749, 0.5748, 0.5749, 0.5751, 0.5755, 0.5761, 0.5769, 0.5779, 0.5792, 0.5807, 0.5823, 0.5842, 0.5862, 0.5884, 0.5908, 0.5934, 0.5963, 0.5994, 0.6029, 0.6067, 0.6107, 0.615, 0.6196, 0.6243, 0.6292, 0.6344, 0.6397, 0.6453, 0.6513, 0.6577, 0.6645, 0.6719, 0.6798, 0.6881, 0.6967, 0.7057, 0.7147, 0.7239, 0.733, 0.7422, 0.7515, 0.761, 0.7709, 0.7815, 0.7928, 0.805, 0.8181, 0.832, 0.8464, 0.8612, 0.8758, 0.8899, 0.9032, 0.9152, 0.9257, 0.9346, 0.9418, 0.9476, 0.952, 0.9553, 0.9577, 0.9595, 0.9609, 0.962, 0.9628, 0.9633, 0.9635, 0.9633, 0.9627, 0.9615, 0.9599, 0.9579, 0.9557, 0.9532, 0.9507, 0.9483, 0.9461, 0.9441, 0.9424, 0.9409, 0.9395, 0.9381, 0.9367, 0.9352, 0.9336, 0.9319, 0.93, 0.9282, 0.9264, 0.9247, 0.9233, 0.9222, 0.9214, 0.921, 0.9209, 0.9212, 0.9218, 0.9226, 0.9238, 0.9251, 0.9267, 0.9284, 0.9303, 0.9323, 0.9344, 0.9366, 0.9387, 0.9409, 0.9429, 0.9448, 0.9467, 0.9483, 0.9499, 0.9513, 0.9525, 0.9536, 0.9546, 0.9554, 0.9562, 0.9568, 0.9572, 0.9575, 0.9575, 0.9572, 0.9566, 0.9556, 0.9541, 0.952, 0.9492, 0.9457, 0.9415, 0.9364, 0.9305, 0.9238, 0.9163, 0.908, 0.8991, 0.8896, 0.8796, 0.8691, 0.8583, 0.8472, 0.836, 0.8246, 0.8132, 0.802, 0.7909, 0.7801, 0.7697, 0.7598, 0.7504, 0.7415, 0.7333, 0.7256, 0.7184, 0.7117, 0.7053, 0.6993, 0.6935, 0.6878, 0.6824, 0.677, 0.6718, 0.6668, 0.6619, 0.6572, 0.6527, 0.6484, 0.6443, 0.6404, 0.6366, 0.633, 0.6296, 0.6264, 0.6234, 0.6205, 0.618, 0.6157, 0.6137, 0.6119, 0.6104, 0.6091, 0.608, 0.607], "req": 0.8139, "aspect": 0.656, "colors": {"top": "#eebad1", "mid": "#d59fc5", "bottom": "#c696c2"}, "eye": {"pos": [[-0.1413, 0.5557], [0.0691, 0.5557]], "w": 0.077, "h": 0.0912, "p": 2.0, "rot": 0, "pw": 0.525, "ph": 0.552, "prot": 0, "pdx": 0.158, "pdy": -0.162, "clip": true, "lidU": 0}, "mouth": {"x": -0.0357, "y": 0.3503, "w": 0.0976, "up": 0.0, "down": 0.0, "curve": 0.0357, "skew": 0.0, "t": 0.0053, "q": 2}}, "gumdrop": {"profile": [0.9137, 0.9105, 0.9072, 0.9038, 0.9004, 0.897, 0.8936, 0.8904, 0.8873, 0.8843, 0.8815, 0.8787, 0.876, 0.8734, 0.8708, 0.8682, 0.8657, 0.8633, 0.861, 0.8588, 0.8568, 0.8548, 0.853, 0.8513, 0.8497, 0.8481, 0.8465, 0.8449, 0.8433, 0.8417, 0.8401, 0.8387, 0.8373, 0.836, 0.8349, 0.834, 0.8332, 0.8325, 0.832, 0.8314, 0.8309, 0.8305, 0.83, 0.8296, 0.8293, 0.8292, 0.8292, 0.8294, 0.8297, 0.8302, 0.8308, 0.8315, 0.8321, 0.8327, 0.8332, 0.8336, 0.8339, 0.8341, 0.8344, 0.8347, 0.8352, 0.8359, 0.8368, 0.8379, 0.8391, 0.8405, 0.8419, 0.8433, 0.8447, 0.846, 0.8473, 0.8486, 0.85, 0.8513, 0.8528, 0.8543, 0.8559, 0.8574, 0.8588, 0.8599, 0.8607, 0.8611, 0.861, 0.8604, 0.8595, 0.8582, 0.8569, 0.8556, 0.8545, 0.8538, 0.8535, 0.8537, 0.8544, 0.8554, 0.8567, 0.8581, 0.8594, 0.8605, 0.8613, 0.8616, 0.8615, 0.8609, 0.86, 0.8587, 0.8572, 0.8557, 0.854, 0.8523, 0.8507, 0.8491, 0.8476, 0.8461, 0.8446, 0.8431, 0.8415, 0.84, 0.8385, 0.837, 0.8355, 0.834, 0.8326, 0.8312, 0.8298, 0.8284, 0.8271, 0.8257, 0.8244, 0.823, 0.8216, 0.8203, 0.819, 0.8179, 0.8169, 0.8161, 0.8155, 0.8152, 0.8152, 0.8154, 0.8159, 0.8166, 0.8175, 0.8185, 0.8196, 0.8208, 0.8219, 0.823, 0.8242, 0.8253, 0.8264, 0.8275, 0.8288, 0.8302, 0.8318, 0.8336, 0.8357, 0.8379, 0.8403, 0.8429, 0.8455, 0.8483, 0.8511, 0.8538, 0.8566, 0.8594, 0.8623, 0.8651, 0.868, 0.8711, 0.8742, 0.8775, 0.8809, 0.8845, 0.8883, 0.8923, 0.8964, 0.9006, 0.9049, 0.9093, 0.9137, 0.9181, 0.9223, 0.9263, 0.93, 0.9334, 0.9364, 0.939, 0.9414, 0.9436, 0.9457, 0.9479, 0.9503, 0.9532, 0.9565, 0.9604, 0.9647, 0.9694, 0.9744, 0.9794, 0.9843, 0.9887, 0.9926, 0.9957, 0.9979, 0.9994, 1.0, 0.9999, 0.9993, 0.9982, 0.9968, 0.9951, 0.9932, 0.9912, 0.989, 0.9865, 0.9838, 0.9806, 0.977, 0.973, 0.9686, 0.9637, 0.9584, 0.9528, 0.9469, 0.9406, 0.934, 0.9272, 0.92, 0.9125, 0.9047, 0.8966, 0.8882, 0.8796, 0.8708, 0.8619, 0.853, 0.8442, 0.8355, 0.827, 0.8187, 0.8106, 0.8027, 0.7951, 0.7877, 0.7806, 0.7737, 0.7672, 0.761, 0.7551, 0.7495, 0.7444, 0.7396, 0.7351, 0.7309, 0.727, 0.7233, 0.7199, 0.7166, 0.7136, 0.7108, 0.7082, 0.7059, 0.7039, 0.7021, 0.7006, 0.6993, 0.6983, 0.6975, 0.6968, 0.6962, 0.6959, 0.6957, 0.6956, 0.6958, 0.6963, 0.697, 0.698, 0.6992, 0.7007, 0.7025, 0.7044, 0.7064, 0.7086, 0.711, 0.7135, 0.7163, 0.7194, 0.7227, 0.7265, 0.7306, 0.735, 0.7398, 0.7449, 0.7502, 0.7558, 0.7615, 0.7674, 0.7735, 0.7799, 0.7867, 0.794, 0.8018, 0.8103, 0.8193, 0.829, 0.839, 0.8494, 0.8599, 0.8703, 0.8804, 0.8901, 0.8993, 0.908, 0.916, 0.9235, 0.9306, 0.9373, 0.9437, 0.9498, 0.9557, 0.9613, 0.9666, 0.9715, 0.976, 0.9798, 0.9832, 0.9859, 0.988, 0.9897, 0.9909, 0.9918, 0.9923, 0.9926, 0.9927, 0.9925, 0.9919, 0.991, 0.9895, 0.9875, 0.9849, 0.9816, 0.9778, 0.9734, 0.9686, 0.9637, 0.9586, 0.9537, 0.949, 0.9447, 0.9409, 0.9376, 0.9348, 0.9324, 0.9304, 0.9287, 0.927, 0.9253, 0.9235, 0.9214, 0.9191, 0.9165], "req": 0.8615, "aspect": 1.2, "colors": {"top": "#decbe5", "mid": "#b4add9", "bottom": "#a0a1d3"}, "eye": {"pos": [[-0.0634, 0.4712], [0.1285, 0.4712]], "w": 0.0662, "h": 0.105, "p": 2.0, "rot": 0, "pw": 0.667, "ph": 0.6, "prot": 0, "pdx": -0.25, "pdy": -0.38, "clip": true, "lidU": 0}, "mouth": {"x": 0.0505, "y": 0.3464, "w": 0.0235, "up": 0.0235, "down": 0.0235, "curve": 0.0, "skew": 0.0, "t": 0.0, "q": 2}}, "diamond": {"profile": [0.5787, 0.5777, 0.5765, 0.5751, 0.5736, 0.572, 0.5704, 0.5688, 0.5673, 0.566, 0.5648, 0.5637, 0.5628, 0.5619, 0.5611, 0.5603, 0.5595, 0.5588, 0.5581, 0.5575, 0.5571, 0.5569, 0.5568, 0.557, 0.5574, 0.558, 0.5587, 0.5595, 0.5605, 0.5615, 0.5627, 0.5639, 0.5654, 0.5671, 0.569, 0.5711, 0.5736, 0.5763, 0.5793, 0.5825, 0.586, 0.5897, 0.5936, 0.5977, 0.6021, 0.6067, 0.6116, 0.6167, 0.6221, 0.6277, 0.6336, 0.6397, 0.6461, 0.6527, 0.6597, 0.6669, 0.6745, 0.6826, 0.6911, 0.7, 0.7094, 0.7193, 0.7296, 0.7403, 0.7514, 0.7629, 0.7747, 0.787, 0.7998, 0.8131, 0.8271, 0.8417, 0.8568, 0.8724, 0.8882, 0.904, 0.9194, 0.934, 0.9476, 0.9597, 0.9702, 0.979, 0.986, 0.9913, 0.995, 0.9976, 0.9991, 0.9998, 1.0, 0.9997, 0.9991, 0.9979, 0.9962, 0.9938, 0.9905, 0.9861, 0.9804, 0.9734, 0.9651, 0.9555, 0.9447, 0.9327, 0.9197, 0.9059, 0.8915, 0.8767, 0.8615, 0.8463, 0.8311, 0.8161, 0.8015, 0.7875, 0.7741, 0.7614, 0.7495, 0.7383, 0.7278, 0.7178, 0.7084, 0.6993, 0.6905, 0.6819, 0.6736, 0.6655, 0.6577, 0.6503, 0.6433, 0.6369, 0.631, 0.6257, 0.6209, 0.6165, 0.6125, 0.6088, 0.6051, 0.6015, 0.5979, 0.5944, 0.5909, 0.5875, 0.5843, 0.5814, 0.5788, 0.5766, 0.5748, 0.5733, 0.5721, 0.5711, 0.5702, 0.5694, 0.5686, 0.5678, 0.5671, 0.5664, 0.5658, 0.5654, 0.5652, 0.5651, 0.5653, 0.5656, 0.5661, 0.5667, 0.5674, 0.5682, 0.569, 0.5699, 0.5709, 0.572, 0.5733, 0.5746, 0.5762, 0.5778, 0.5794, 0.581, 0.5826, 0.584, 0.5852, 0.5862, 0.587, 0.5877, 0.5881, 0.5885, 0.5889, 0.5893, 0.5899, 0.5905, 0.5913, 0.5923, 0.5932, 0.5942, 0.5952, 0.596, 0.5966, 0.597, 0.5972, 0.5971, 0.5968, 0.5964, 0.5959, 0.5954, 0.595, 0.5947, 0.5946, 0.5947, 0.5949, 0.5953, 0.5959, 0.5964, 0.597, 0.5976, 0.5982, 0.5987, 0.5993, 0.6001, 0.601, 0.6022, 0.6038, 0.6058, 0.6081, 0.6109, 0.6139, 0.6172, 0.6207, 0.6242, 0.6277, 0.6312, 0.6346, 0.6381, 0.6416, 0.6452, 0.6491, 0.6532, 0.6577, 0.6625, 0.6677, 0.6732, 0.679, 0.6851, 0.6915, 0.6981, 0.705, 0.7123, 0.72, 0.7282, 0.737, 0.7463, 0.7563, 0.7669, 0.7781, 0.7899, 0.8021, 0.8148, 0.8279, 0.8413, 0.855, 0.8688, 0.8828, 0.8966, 0.9102, 0.9234, 0.9358, 0.9472, 0.9574, 0.9662, 0.9735, 0.9794, 0.9838, 0.9869, 0.9891, 0.9905, 0.9913, 0.9918, 0.9919, 0.9916, 0.9907, 0.9889, 0.9858, 0.981, 0.9743, 0.9656, 0.9546, 0.9416, 0.9269, 0.9108, 0.894, 0.8768, 0.8599, 0.8436, 0.8282, 0.814, 0.8009, 0.7888, 0.7775, 0.767, 0.7569, 0.7471, 0.7375, 0.7281, 0.719, 0.7103, 0.702, 0.6943, 0.6871, 0.6805, 0.6743, 0.6686, 0.6631, 0.6578, 0.6526, 0.6474, 0.6423, 0.6373, 0.6324, 0.6279, 0.6237, 0.62, 0.6167, 0.614, 0.6116, 0.6095, 0.6076, 0.6059, 0.6041, 0.6024, 0.6007, 0.5989, 0.5973, 0.5958, 0.5944, 0.5932, 0.5923, 0.5916, 0.591, 0.5906, 0.5903, 0.59, 0.5898, 0.5896, 0.5895, 0.5894, 0.5895, 0.5896, 0.5898, 0.5899, 0.5901, 0.5901, 0.59, 0.5896, 0.589, 0.5883, 0.5873, 0.5863, 0.5852, 0.5841, 0.5832, 0.5823, 0.5816, 0.5809, 0.5803, 0.5796], "req": 0.7042, "aspect": 0.586, "colors": {"top": "#acc1de", "mid": "#8babc1", "bottom": "#8aa8b4"}, "eye": {"pos": [[-0.1038, 0.5364], [0.1173, 0.5364]], "w": 0.0823, "h": 0.1084, "p": 1.7, "rot": 0, "pw": 0.547, "ph": 0.443, "prot": 0, "pdx": 0.012, "pdy": -0.143, "clip": true, "lidU": 0.5}, "mouth": {"x": 0.0029, "y": 0.3445, "w": 0.0209, "up": 0.0209, "down": 0.0209, "curve": 0.0, "skew": 0.0, "t": 0.0, "q": 2}}, "cloud": {"profile": [0.9409, 0.9316, 0.921, 0.9091, 0.8959, 0.8817, 0.8668, 0.8516, 0.837, 0.8235, 0.8119, 0.803, 0.7971, 0.7944, 0.795, 0.7985, 0.8042, 0.8114, 0.8193, 0.827, 0.8339, 0.8395, 0.8436, 0.8463, 0.8478, 0.8484, 0.8486, 0.8488, 0.849, 0.8495, 0.85, 0.8505, 0.8504, 0.8497, 0.8479, 0.8451, 0.8412, 0.8365, 0.8312, 0.8256, 0.8201, 0.8147, 0.8096, 0.8046, 0.7995, 0.7939, 0.7876, 0.7804, 0.772, 0.7627, 0.7528, 0.7427, 0.7331, 0.7247, 0.7179, 0.7134, 0.7113, 0.7117, 0.7143, 0.7189, 0.7249, 0.7317, 0.7388, 0.7459, 0.7526, 0.7588, 0.7644, 0.7696, 0.7744, 0.7791, 0.7837, 0.7883, 0.793, 0.7975, 0.802, 0.8063, 0.8103, 0.8139, 0.8172, 0.8201, 0.8226, 0.8247, 0.8265, 0.8278, 0.8287, 0.8291, 0.8292, 0.8289, 0.8284, 0.8278, 0.8273, 0.827, 0.827, 0.8274, 0.828, 0.8288, 0.8294, 0.8297, 0.8293, 0.8281, 0.826, 0.823, 0.8191, 0.8148, 0.8101, 0.8054, 0.801, 0.7969, 0.793, 0.7893, 0.7853, 0.7808, 0.7754, 0.769, 0.7616, 0.7534, 0.7447, 0.7363, 0.7288, 0.7229, 0.7193, 0.7184, 0.7205, 0.7255, 0.7329, 0.7423, 0.7529, 0.764, 0.7748, 0.785, 0.7941, 0.802, 0.8088, 0.8148, 0.8202, 0.8252, 0.8302, 0.8352, 0.8401, 0.845, 0.8495, 0.8536, 0.857, 0.8597, 0.8618, 0.8632, 0.8642, 0.865, 0.8658, 0.8665, 0.8673, 0.8679, 0.8682, 0.868, 0.8669, 0.8647, 0.8615, 0.8573, 0.8522, 0.8467, 0.8412, 0.8364, 0.8326, 0.8306, 0.8305, 0.8327, 0.8372, 0.8439, 0.8526, 0.8627, 0.8739, 0.8857, 0.8975, 0.9089, 0.9194, 0.9287, 0.9367, 0.9431, 0.9482, 0.9519, 0.9545, 0.9563, 0.9577, 0.9589, 0.9603, 0.9619, 0.964, 0.9664, 0.969, 0.9716, 0.9739, 0.9757, 0.9767, 0.9769, 0.9761, 0.9745, 0.9723, 0.9697, 0.9668, 0.9639, 0.961, 0.958, 0.9546, 0.9506, 0.9456, 0.9392, 0.9314, 0.9219, 0.911, 0.899, 0.8864, 0.874, 0.8623, 0.8522, 0.844, 0.8382, 0.8347, 0.8335, 0.8341, 0.836, 0.8386, 0.8412, 0.8433, 0.8445, 0.8446, 0.8434, 0.8411, 0.8378, 0.8338, 0.8293, 0.8245, 0.8196, 0.8146, 0.8096, 0.8046, 0.7995, 0.7945, 0.7894, 0.7843, 0.7793, 0.7743, 0.7694, 0.7646, 0.7599, 0.7551, 0.7504, 0.7456, 0.7406, 0.7356, 0.7306, 0.7256, 0.7207, 0.716, 0.7115, 0.7072, 0.7029, 0.6987, 0.6943, 0.6896, 0.6846, 0.6792, 0.6736, 0.6679, 0.6625, 0.6577, 0.6538, 0.6512, 0.6502, 0.6507, 0.6529, 0.6566, 0.6614, 0.6672, 0.6735, 0.68, 0.6864, 0.6925, 0.6983, 0.7037, 0.7088, 0.7136, 0.7182, 0.7226, 0.727, 0.7312, 0.7354, 0.7396, 0.7437, 0.7478, 0.752, 0.7565, 0.7612, 0.7663, 0.7717, 0.7774, 0.7833, 0.7891, 0.7947, 0.7999, 0.8045, 0.8085, 0.8118, 0.8146, 0.8169, 0.8191, 0.8213, 0.8236, 0.826, 0.8285, 0.831, 0.8334, 0.8353, 0.8366, 0.8373, 0.8375, 0.8374, 0.8373, 0.8377, 0.839, 0.8415, 0.8458, 0.8517, 0.8593, 0.8684, 0.8784, 0.889, 0.8995, 0.9095, 0.9187, 0.9269, 0.934, 0.9401, 0.9455, 0.9505, 0.9553, 0.9602, 0.9653, 0.9706, 0.976, 0.9813, 0.9863, 0.9908, 0.9944, 0.9972, 0.9991, 1.0, 1.0, 0.9992, 0.9978, 0.9957, 0.9932, 0.9902, 0.9868, 0.983, 0.9787, 0.974, 0.9687, 0.9629, 0.9564, 0.9491], "req": 0.8318, "aspect": 1.26, "colors": {"top": "#d1dce4", "mid": "#adbddc", "bottom": "#a5b0db"}, "eye": {"pos": [[-0.0225, 0.3496], [0.1475, 0.3496]], "w": 0.0583, "h": 0.0957, "p": 2.0, "rot": -0.1, "pw": 0.78, "ph": 0.676, "prot": 0, "pdx": -0.63, "pdy": 0.0, "clip": false, "lidU": 0}, "mouth": {"x": 0.058, "y": 0.1573, "w": 0.0831, "up": 0.0, "down": 0.0, "curve": 0.035, "skew": 0.0058, "t": 0.0047, "q": 2}}, "flower": {"profile": [0.9351, 0.9428, 0.9497, 0.9557, 0.9611, 0.9658, 0.97, 0.9737, 0.977, 0.98, 0.9829, 0.9857, 0.9883, 0.9908, 0.9932, 0.9952, 0.9969, 0.9982, 0.9988, 0.9988, 0.9981, 0.9966, 0.9944, 0.9916, 0.9881, 0.9841, 0.9796, 0.9748, 0.9695, 0.9639, 0.9579, 0.9515, 0.9446, 0.9372, 0.9291, 0.9203, 0.9107, 0.9004, 0.8893, 0.8775, 0.8651, 0.8521, 0.8389, 0.8257, 0.8127, 0.8001, 0.7884, 0.7778, 0.7687, 0.7612, 0.7555, 0.7518, 0.7501, 0.7504, 0.7526, 0.7565, 0.7619, 0.7686, 0.7763, 0.7847, 0.7936, 0.8028, 0.812, 0.8211, 0.83, 0.8386, 0.8468, 0.8546, 0.8619, 0.869, 0.8756, 0.882, 0.8882, 0.8941, 0.8998, 0.9053, 0.9105, 0.9153, 0.9196, 0.9233, 0.9263, 0.9286, 0.9301, 0.9309, 0.931, 0.9306, 0.9299, 0.9291, 0.9283, 0.9278, 0.9277, 0.9279, 0.9285, 0.9293, 0.9302, 0.9309, 0.9312, 0.931, 0.9301, 0.9284, 0.926, 0.9227, 0.9188, 0.9144, 0.9096, 0.9045, 0.8992, 0.8938, 0.8883, 0.8826, 0.8766, 0.8703, 0.8635, 0.8562, 0.8483, 0.8398, 0.8309, 0.8215, 0.812, 0.8024, 0.7929, 0.7839, 0.7755, 0.768, 0.7616, 0.7565, 0.7529, 0.7509, 0.7506, 0.7523, 0.7558, 0.7611, 0.7683, 0.7771, 0.7875, 0.7991, 0.8117, 0.8249, 0.8386, 0.8523, 0.8657, 0.8787, 0.8909, 0.9023, 0.9127, 0.9222, 0.9308, 0.9385, 0.9455, 0.9519, 0.958, 0.9636, 0.9691, 0.9743, 0.9794, 0.9841, 0.9885, 0.9923, 0.9955, 0.9979, 0.9994, 1.0, 0.9996, 0.9983, 0.9963, 0.9937, 0.9906, 0.9873, 0.9841, 0.9808, 0.9778, 0.975, 0.9723, 0.9697, 0.9669, 0.9638, 0.9602, 0.9559, 0.9507, 0.9446, 0.9374, 0.9291, 0.9197, 0.9093, 0.898, 0.8859, 0.8734, 0.8606, 0.8479, 0.8354, 0.8237, 0.8129, 0.8035, 0.7957, 0.7898, 0.7859, 0.7841, 0.7845, 0.787, 0.7915, 0.7976, 0.8053, 0.8141, 0.8237, 0.8339, 0.8444, 0.8549, 0.8652, 0.8753, 0.8849, 0.894, 0.9025, 0.9105, 0.9179, 0.9248, 0.9312, 0.9371, 0.9426, 0.9476, 0.9523, 0.9566, 0.9605, 0.964, 0.9672, 0.9699, 0.9721, 0.9739, 0.9753, 0.9763, 0.9768, 0.977, 0.9769, 0.9764, 0.9756, 0.9743, 0.9726, 0.9702, 0.9671, 0.9632, 0.9585, 0.9528, 0.9463, 0.9392, 0.9316, 0.9237, 0.9159, 0.9083, 0.901, 0.8941, 0.8876, 0.8812, 0.8747, 0.8678, 0.8601, 0.8514, 0.8415, 0.8304, 0.8182, 0.8052, 0.7918, 0.7784, 0.7655, 0.7536, 0.7431, 0.7341, 0.7268, 0.7211, 0.7171, 0.7144, 0.7129, 0.7125, 0.713, 0.7146, 0.7173, 0.7213, 0.7268, 0.7338, 0.7425, 0.7527, 0.7644, 0.7771, 0.7904, 0.8039, 0.8171, 0.8296, 0.841, 0.8512, 0.8602, 0.8681, 0.8752, 0.8817, 0.888, 0.8944, 0.9011, 0.9082, 0.9156, 0.9234, 0.9312, 0.9388, 0.946, 0.9525, 0.9583, 0.9631, 0.967, 0.97, 0.9722, 0.9738, 0.9749, 0.9755, 0.9759, 0.976, 0.9758, 0.9753, 0.9745, 0.9734, 0.9719, 0.97, 0.9675, 0.9647, 0.9613, 0.9575, 0.9531, 0.9483, 0.9431, 0.9373, 0.9311, 0.9244, 0.9172, 0.9095, 0.9013, 0.8926, 0.8835, 0.874, 0.864, 0.8538, 0.8434, 0.8331, 0.8229, 0.8133, 0.8045, 0.7967, 0.7905, 0.7859, 0.7834, 0.783, 0.7848, 0.7889, 0.795, 0.803, 0.8126, 0.8235, 0.8352, 0.8475, 0.86, 0.8724, 0.8845, 0.8961, 0.907, 0.9172, 0.9265], "req": 0.8885, "aspect": 1.098, "colors": {"top": "#e9e0ef", "mid": "#c8cbe8", "bottom": "#b7c1e4"}, "eye": {"pos": [[-0.1528, 0.3294], [0.1905, 0.3294]], "w": 0.1081, "h": 0.0969, "p": 2.6, "rot": 0, "pw": 0.441, "ph": 0.607, "prot": 0, "pdx": 0.294, "pdy": -0.214, "clip": true, "lidU": 0}, "mouth": {"x": 0.0329, "y": 0.1733, "w": 0.0805, "up": 0.0018, "down": 0.059, "curve": 0.0024, "skew": 0.0, "t": 0.0018, "q": 2.4}}});

diff --git a/sw.js b/sw.js
@@ -2,7 +2,7 @@
  * Strategy: game files (same origin) = network first, cache fallback, so a new deploy shows up on the
  * next open; CDN libraries (three, fonts, MediaPipe) = cache first (versioned URLs never change).
  * Bump VERSION on every deploy that changes the file list. */
-const VERSION = 'mp-20261116-2059';
+const VERSION = 'mp-20261116-2147';
 const SHELL = ['./', 'assets/data/cloud.json', 'assets/data/conversation.json', 'assets/data/foods.json', 'assets/data/furniture.json', 'assets/data/growth.json', 'assets/data/minigames.json', 'assets/data/needs.json', 'assets/data/personas.json', 'assets/data/wardrobe.json', 'assets/icons/apple-touch-icon.png', 'assets/icons/favicon-48.png', 'assets/icons/icon-192.png', 'assets/icons/icon-512.png', 'assets/icons/icon-maskable-192.png', 'assets/icons/icon-maskable-512.png', 'assets/ui/characters/char_ack.png', 'assets/ui/characters/char_fah.png', 'assets/ui/characters/char_mai.png', 'assets/ui/characters/char_min.png', 'assets/ui/characters/char_pai.png', 'assets/ui/characters/char_two.png', 'index.html', 'manifest.webmanifest', 'src/audio/babble.js', 'src/audio/context.js', 'src/audio/dsp.js', 'src/audio/listen.js', 'src/audio/sfx.js', 'src/audio/talkback.js', 'src/characters/accessories.js', 'src/characters/actions.js', 'src/characters/character.js', 'src/characters/expressions.js', 'src/characters/face.js', 'src/characters/fit.js', 'src/characters/marks.js', 'src/characters/shapes.js', 'src/conversation/keyword-brain.js', 'src/conversation/normalize.js', 'src/engine/bake.js', 'src/engine/stage.js', 'src/engine/thumbs.js', 'src/game/care.js', 'src/game/cloud-rules.js', 'src/game/cloud.js', 'src/game/furniture.js', 'src/game/growth-rules.js', 'src/game/growth.js', 'src/game/minigames/bubbles-rules.js', 'src/game/minigames/bubbles.js', 'src/game/minigames/common-rules.js', 'src/game/minigames/hop-rules.js', 'src/game/minigames/hop.js', 'src/game/minigames/index.js', 'src/game/minigames/mimic-rules.js', 'src/game/minigames/mimic.js', 'src/game/minigames/round.js', 'src/game/minigames/snack-rain-rules.js', 'src/game/minigames/snack-rain.js', 'src/game/mood.js', 'src/game/needs.js', 'src/game/rooms.js', 'src/game/state.js', 'src/game/talk-rules.js', 'src/game/talk.js', 'src/game/timers.js', 'src/game/wardrobe.js', 'src/input/gestures.js', 'src/input/hands.js', 'src/input/head-rules.js', 'src/input/head.js', 'src/input/pointer.js', 'src/main.js', 'src/props/clay.js', 'src/props/foods.js', 'src/props/furniture/bathroom-items.js', 'src/props/furniture/kitchen-bath-shared.js', 'src/props/furniture/kitchen-items.js', 'src/props/furniture/living-basic.js', 'src/props/furniture/living-common.js', 'src/props/furniture/living-xmas.js', 'src/props/minigame-bubbles.js', 'src/props/minigame-hop.js', 'src/props/minigame-mimic.js', 'src/props/minigame-snack.js', 'src/props/minigame.js', 'src/rooms/bathroom.js', 'src/rooms/furniture.js', 'src/rooms/index.js', 'src/rooms/kitchen.js', 'src/rooms/living.js', 'src/rooms/shell.js', 'src/ui/hud-s5.js', 'src/ui/hud.css', 'src/ui/hud.js', 'src/ui/icons.js', 'src/ui/profile.js', 'src/ui/tokens.css'];
 const CDN = /^https:\/\/(cdn\.jsdelivr\.net|fonts\.googleapis\.com|fonts\.gstatic\.com|storage\.googleapis\.com)\//;
 

diff --git a/src/characters/character.js b/src/characters/character.js
@@ -134,7 +134,7 @@ export function createCharacter(key, opts = {}) {
   const decalBase = { transparent: true, depthWrite: false, polygonOffset: true, polygonOffsetFactor: -4, polygonOffsetUnits: -4 };
   const eyeTex = [canvasTex(ETEX), canvasTex(ETEX)], mouthTex = canvasTex(TEX);
   // Clear lens eyes (owner 2026-11-16, "ฝัง + เลนส์ใส"): glossy clear-coat over the painted eye so it catches light.
-  const eyeMats = eyeTex.map(x => new THREE.MeshPhysicalMaterial({ map: x.t, roughness: .55, clearcoat: .35, clearcoatRoughness: .25, envMapIntensity: .18, ...decalBase }));
+  const eyeMats = eyeTex.map(x => new THREE.MeshPhysicalMaterial({ map: x.t, roughness: .7, clearcoat: .12, clearcoatRoughness: .4, envMapIntensity: .1, ...decalBase }));
   const mouthMat = new THREE.MeshStandardMaterial({ map: mouthTex.t, roughness: .7, ...decalBase });
   const blushTex = radialTex(128, 'rgba(246,150,190,.85)', 'rgba(246,150,190,0)');
   const blushMat = new THREE.MeshBasicMaterial({ map: blushTex, opacity: 0, ...decalBase });
@@ -218,12 +218,12 @@ export function createCharacter(key, opts = {}) {
     return E.pos.map(([x, y]) => [x + Math.sign(x - eyeMidX || 1) * w * (k - 1), y + h * (k - 1) * .5]);
   }
 
-  // rest geometry = flat body + eye sockets (the soft-body base; decals are projected onto it)
+  // rest geometry = flat body + very shallow eye sockets (owner 2026-11-16: eyes sit flush, not deep) (the soft-body base; decals are projected onto it)
   const restGeo = flatGeo.clone(), insetGeo = flatGeo.clone();
   const fpos = flatGeo.attributes.position, fnor = flatGeo.attributes.normal;
   function buildSockets(k, P) {
     const rp = restGeo.attributes.position, Sk = S * k;
-    const grow = 1.12, depth = .16 * Math.min(E.w, E.h) * Sk, pupOff = [E.pdx * E.w * Sk, E.pdy * E.h * Sk];
+    const grow = 1.12, depth = .02 * Math.min(E.w, E.h) * Sk, pupOff = [E.pdx * E.w * Sk, E.pdy * E.h * Sk];
     const cr = Math.cos(-E.rot), sr = Math.sin(-E.rot);
     for (let i = 0; i < fpos.count; i++) {
       let x = fpos.getX(i), y = fpos.getY(i), z = fpos.getZ(i);

diff --git a/src/characters/face.js b/src/characters/face.js
@@ -80,23 +80,17 @@ export function drawEye(g, TEX, BOX, E, S, i, st) {
 }
 
 /**
- * Inset + clear lens (owner 2026-11-16): a soft socket shadow along the top inside edge so the eye
- * reads as set into the body, a faint cool rim, and a glossy crescent highlight at the upper right.
+ * Clear lens (owner 2026-11-16): a glossy highlight at the upper right of the eye. The eye stays flat
+ * and white (owner asked to drop the socket shadow so the eyes do not look deep).
  * Drawn in eye space (y up), clipped to the eye shape.
  */
 function drawLens(g, w, h, E) {
   g.save();
   superPath(g, w, h, E.p); g.clip();
-  const sh = g.createLinearGradient(0, h, 0, h * .15);
-  sh.addColorStop(0, 'rgba(92,84,150,.2)'); sh.addColorStop(1, 'rgba(92,84,150,0)');
-  g.fillStyle = sh; g.fillRect(-w * 1.2, -h * 1.2, w * 2.4, h * 2.4);
-  const rim = g.createRadialGradient(0, 0, Math.min(w, h) * .7, 0, 0, Math.max(w, h) * 1.05);
-  rim.addColorStop(0, 'rgba(160,170,220,0)'); rim.addColorStop(1, 'rgba(160,170,220,.2)');
-  g.fillStyle = rim; g.fillRect(-w * 1.2, -h * 1.2, w * 2.4, h * 2.4);
-  // crescent highlight hugging the upper-right rim, kept off the pupil
-  g.translate(w * .66, h * .5); g.rotate(-.7);
-  g.fillStyle = 'rgba(255,255,255,.95)';
-  g.beginPath(); g.ellipse(0, 0, w * .1, h * .26, 0, 0, Math.PI * 2); g.fill();
+  // small glossy highlight at the upper right (flat eye, no socket shadow — owner 2026-11-16)
+  g.translate(w * .62, h * .5); g.rotate(-.7);
+  g.fillStyle = 'rgba(255,255,255,.9)';
+  g.beginPath(); g.ellipse(0, 0, w * .09, h * .22, 0, 0, Math.PI * 2); g.fill();
   g.restore();
 }
 
